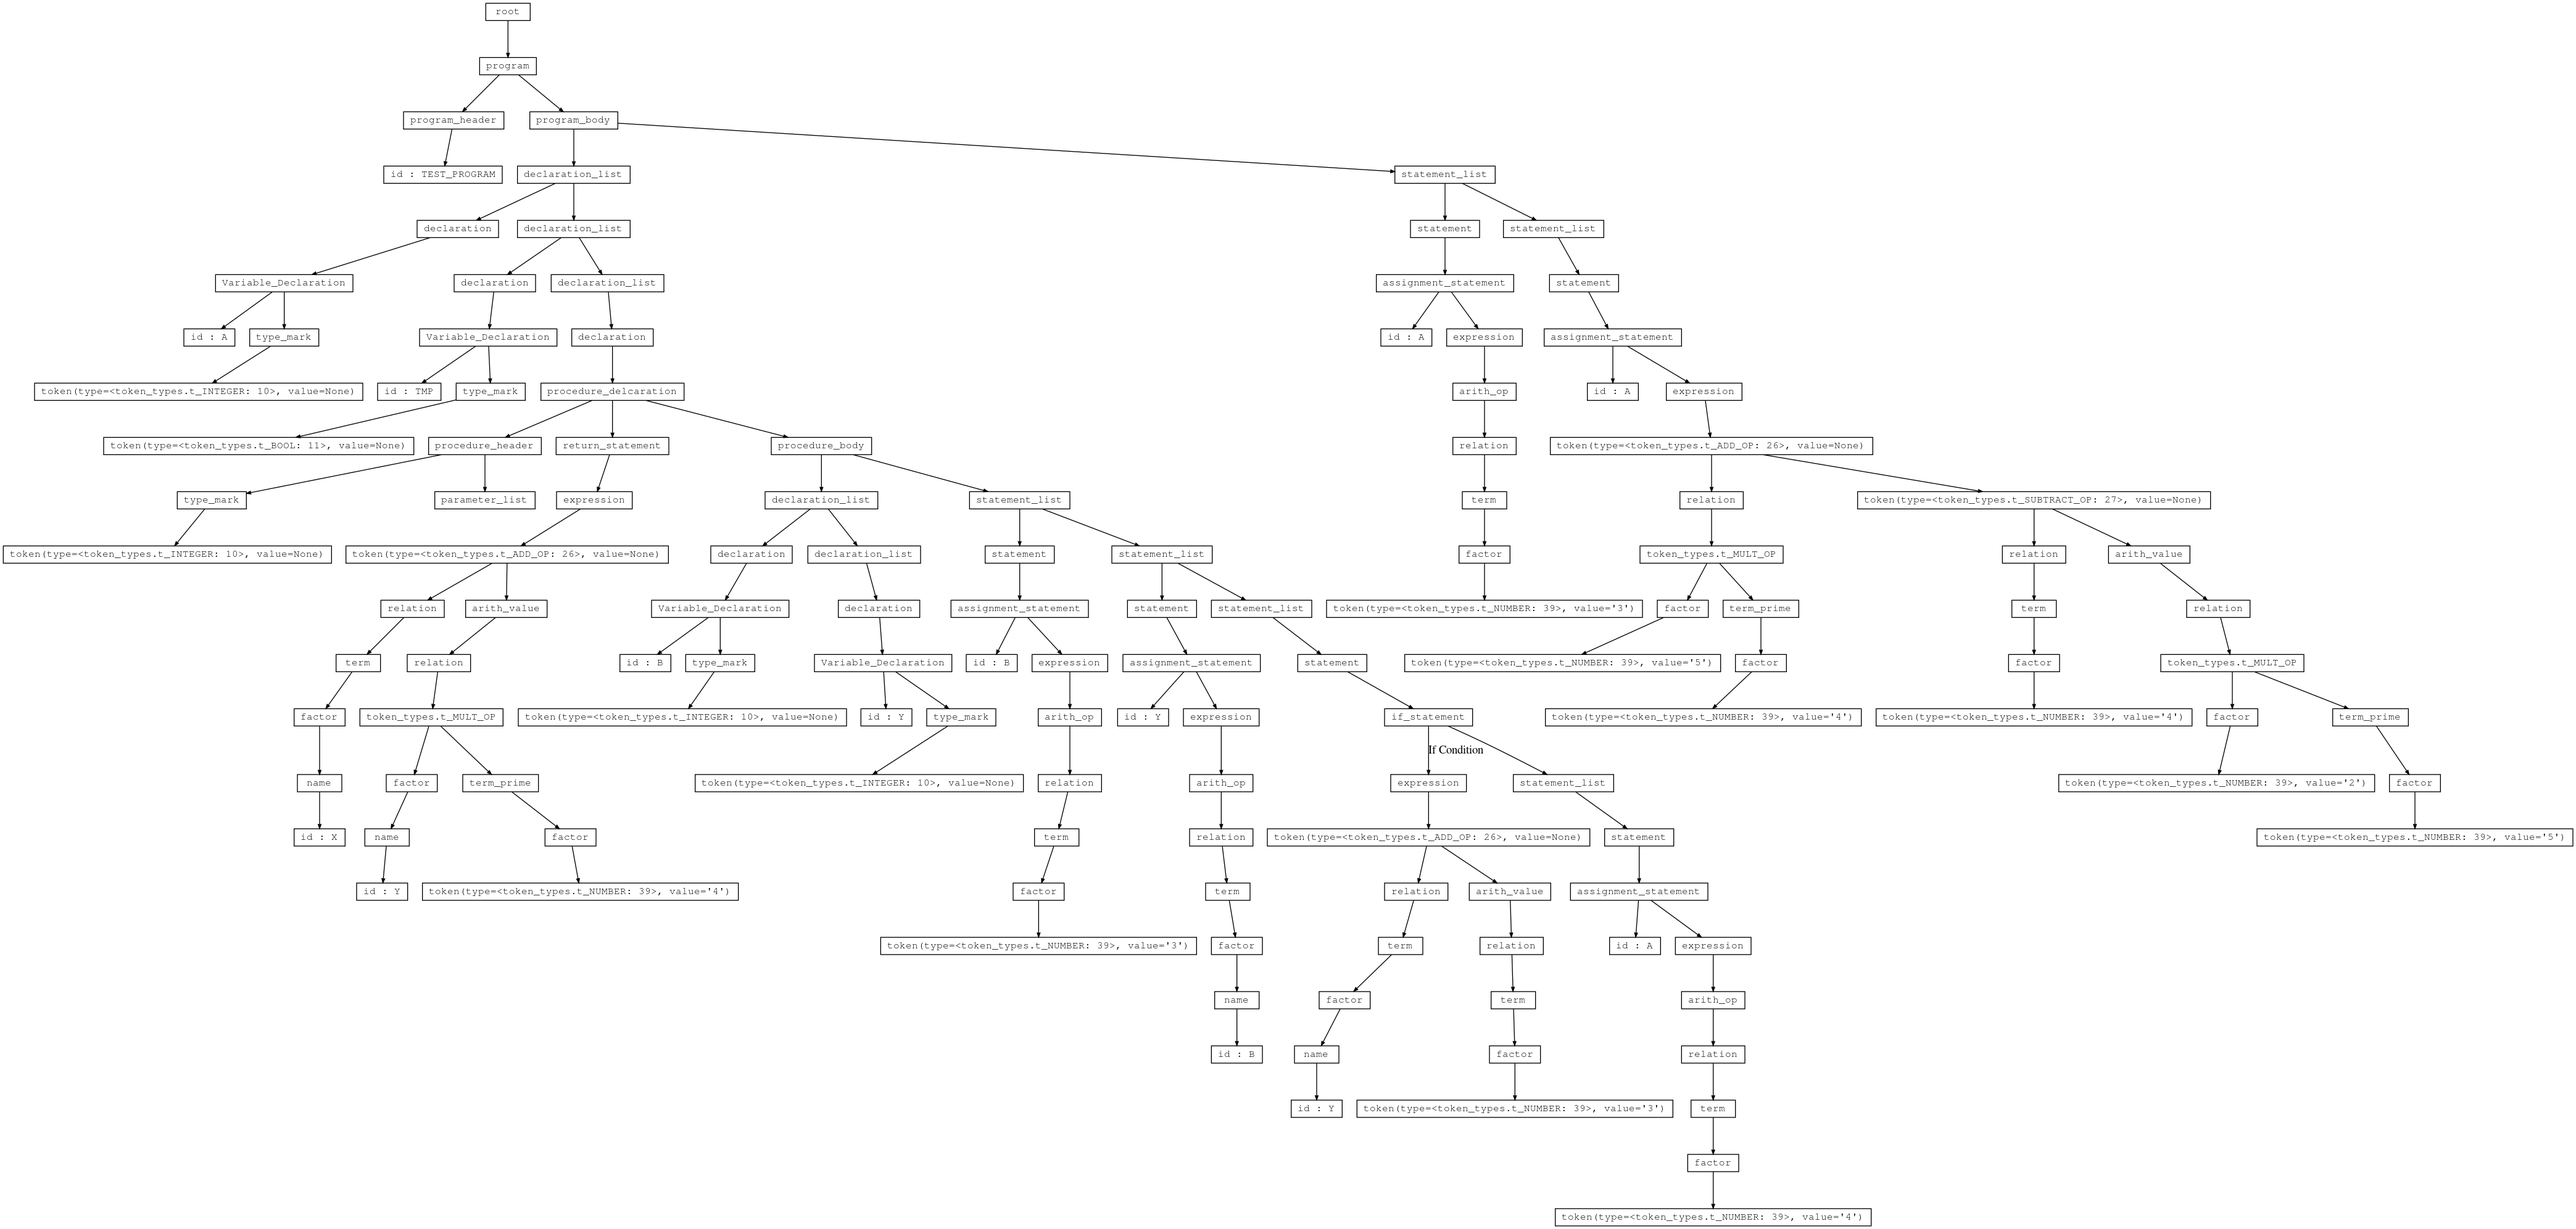
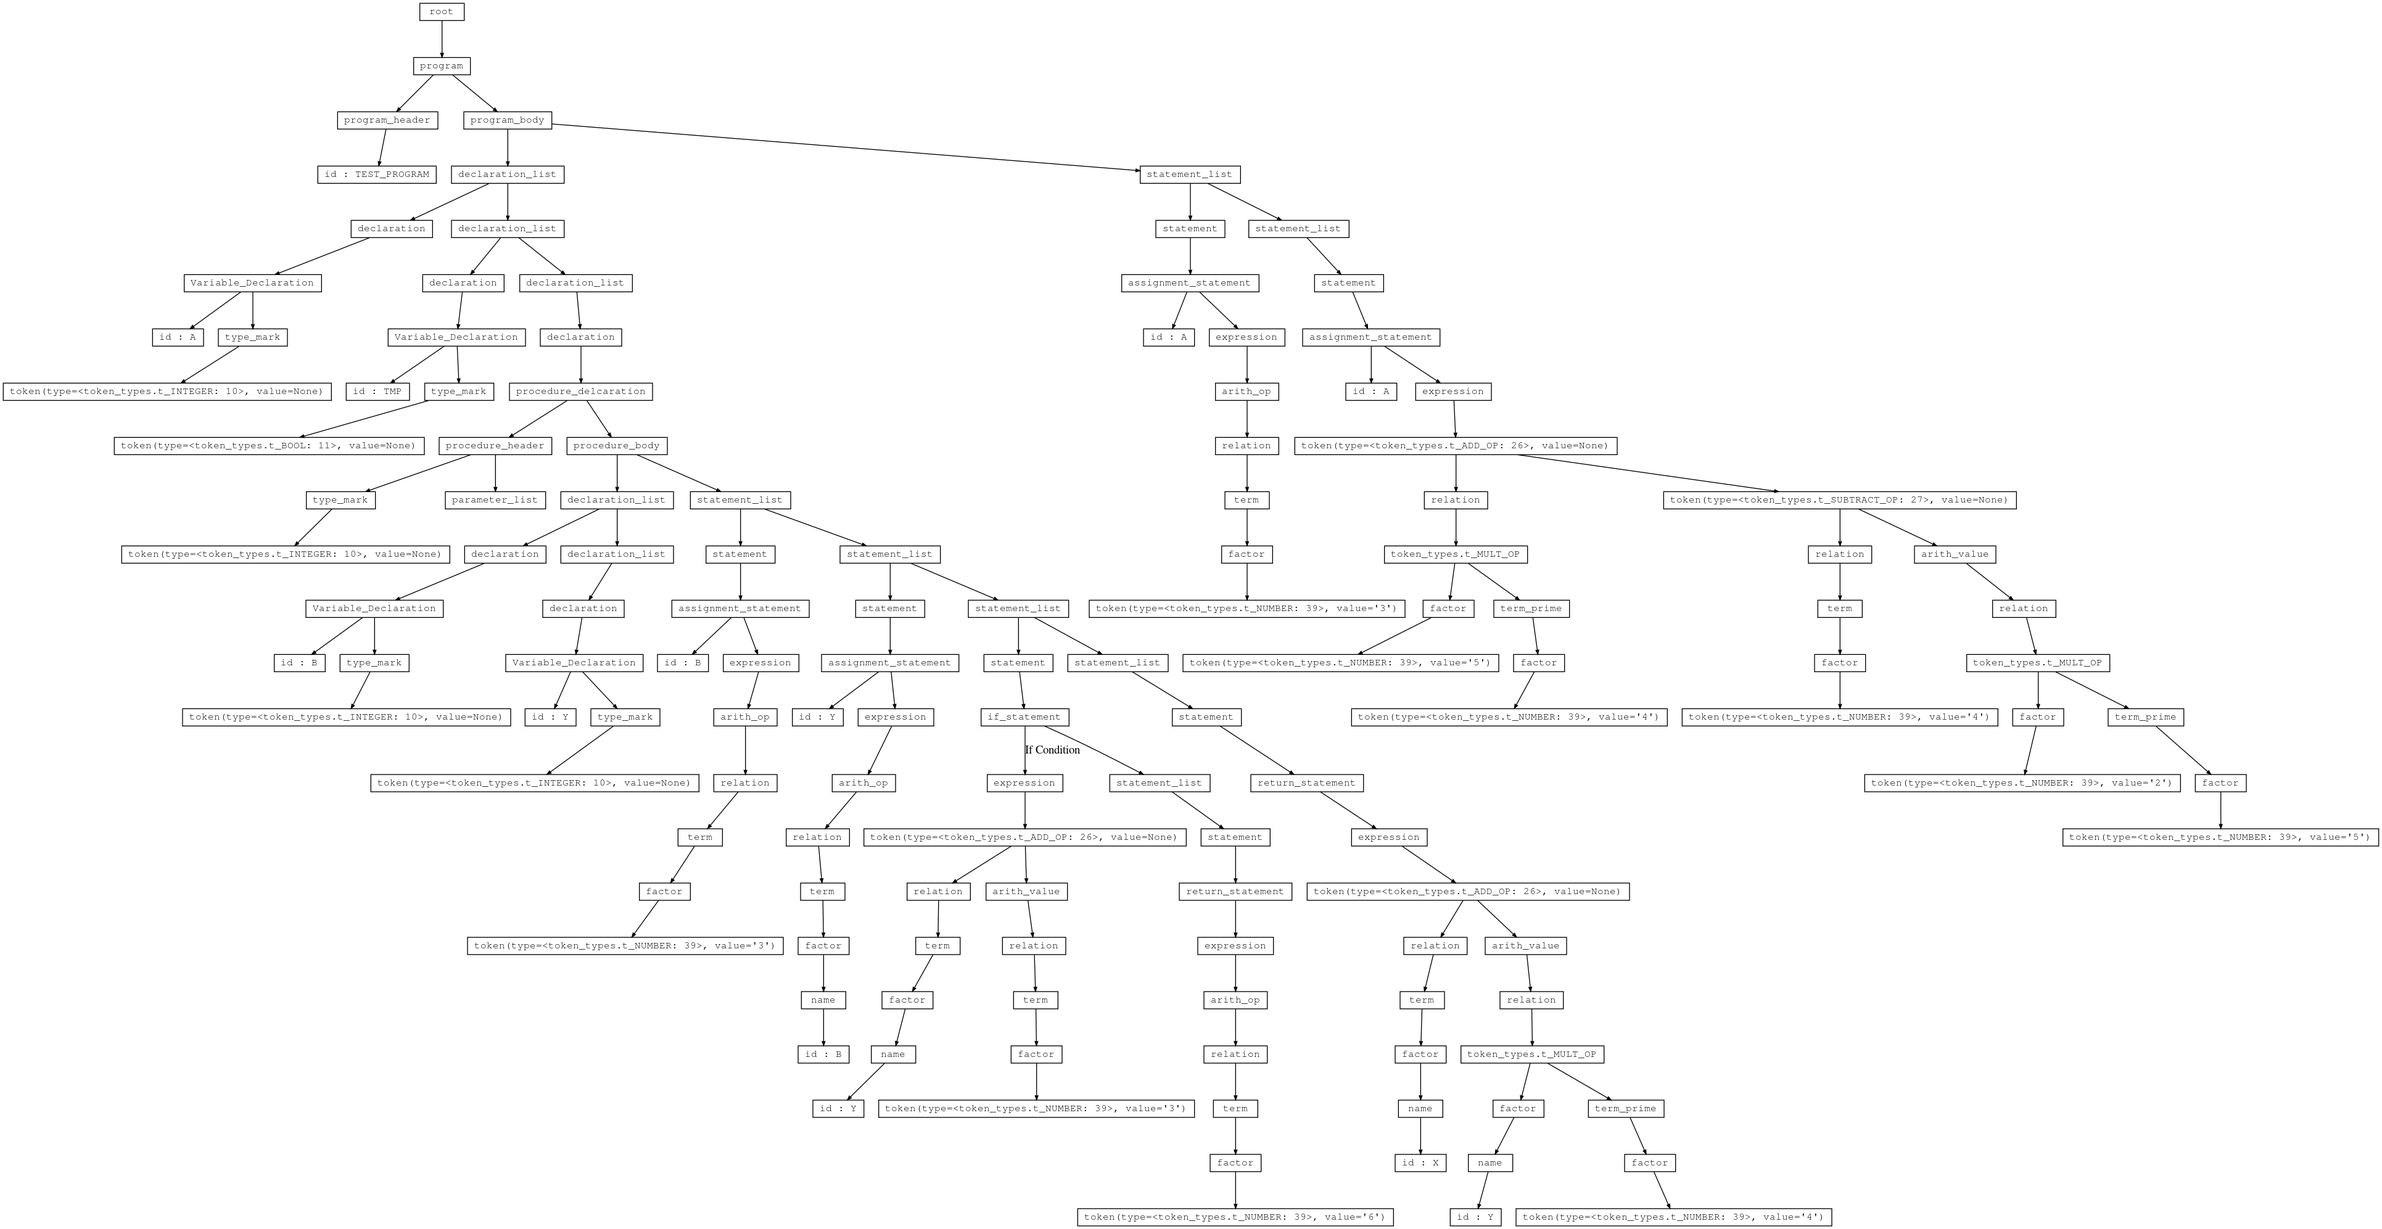
Fixed some errors

diff --git a/parser/parser.py b/parser/parser.py
@@ -375,7 +375,7 @@ def loop_statement(parent_node):
   # if match("for") and match("(") and assignment_statement(new_node) and match(";") and expression(new_node):
   #   while more_statement:
   #     more_statement=statement(new_node)
-
+  return False
   statement_list(new_node)
   match(common.token_types.t_SEMI_COLON)
 
@@ -408,7 +408,7 @@ def statement_list(parent_node):
   global lookahead
   new_node = Node("statement_list")
 
-  if lookahead.type==common.token_types.t_ID or lookahead.type==common.token_types.t_FOR or lookahead.type==common.token_types.t_IF:
+  if lookahead.type==common.token_types.t_ID or lookahead.type==common.token_types.t_FOR or lookahead.type==common.token_types.t_IF or lookahead.type==common.token_types.t_RETURN:
     statement(new_node)
     match(common.token_types.t_SEMI_COLON)
     statement_list(new_node)
